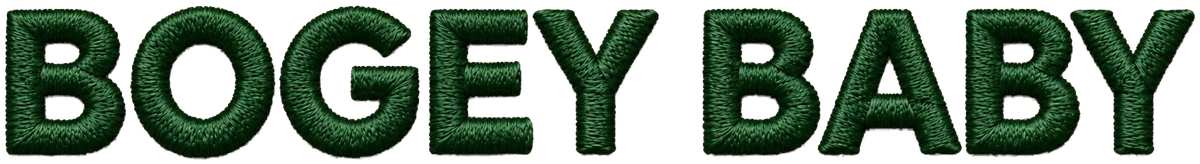
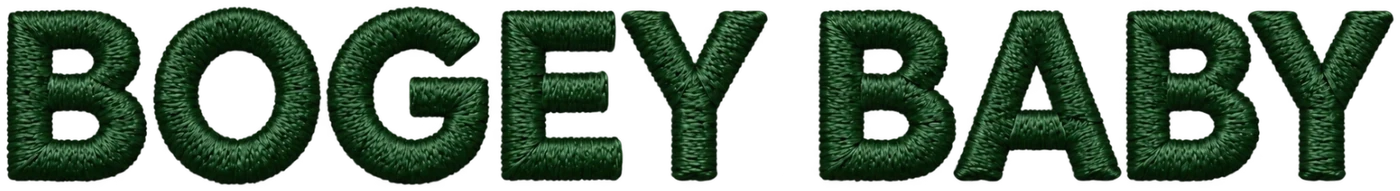
Header: new BOGEY BABY artwork, larger on phones; desktop crest patch, no text menu
- Phones: the supplied BOGEY BABY embroidery at 230px (was 160px); search
  moves into the menu drawer to make room. Also used in the drawer and on
  the ad landing pages.
- Desktop: text menu items removed; the menu button (now on every screen
  size) opens the drawer, which gains a link to The Cream Rope Cap.
- Desktop crest patch is 120px (was 84px) and hangs below the bar at the top
  of the page, shrinking to 80px inside it once the page scrolls.
- Fix: the account icon sat a few pixels high on desktop (hide-mobile reset
  its display to inline).

Claude-Session: https://claude.ai/code/session_01A2CEMQyoF3JCtEcH9hzwd3

diff --git a/storefront/src/components/Header.tsx b/storefront/src/components/Header.tsx
@@ -3,13 +3,14 @@
 import Image from 'next/image';
 import Link from 'next/link';
 import { usePathname } from 'next/navigation';
-import { useEffect, useRef, useState } from 'react';
+import { useEffect, useState } from 'react';
 import { useCart } from '@/lib/cart';
 import { site } from '@/lib/site';
 import { Icon } from './Icon';
 
 const shopLinks = [
   { href: '/collections/all', label: 'Shop all hats' },
+  { href: '/products/cream-rope-cap', label: 'The Cream Rope Cap' },
   { href: '/collections/embroidered', label: 'Embroidered classics' },
   { href: '/collections/performance', label: 'Performance (UPF 50+)' },
   { href: '/collections/ponytail-caps', label: 'Ponytail caps' },
@@ -22,68 +23,50 @@ const styleLinks = [
   { href: '/collections/beanies', label: 'Beanies' },
 ];
 
+/**
+ * Twill header with no text menu: the menu button (every screen size) opens the drawer with all the links.
+ * Desktop: the crest patch sits in the middle, hanging below the bar at the top of the page and shrinking into it
+ * once the page scrolls. Phones: the embroidered BOGEY BABY wordmark in the middle; search lives in the drawer.
+ */
 export function Header() {
   const cart = useCart();
   const [menuOpen, setMenuOpen] = useState(false);
+  const [scrolled, setScrolled] = useState(false);
   const pathname = usePathname();
-  const megaRef = useRef<HTMLDetailsElement>(null);
 
   useEffect(() => {
     setMenuOpen(false);
-    if (megaRef.current) megaRef.current.open = false;
   }, [pathname]);
 
   useEffect(() => {
     const onKey = (e: KeyboardEvent) => {
-      if (e.key === 'Escape') {
-        setMenuOpen(false);
-        if (megaRef.current) megaRef.current.open = false;
-      }
+      if (e.key === 'Escape') setMenuOpen(false);
     };
+    const onScroll = () => setScrolled(window.scrollY > 8);
+    onScroll();
     window.addEventListener('keydown', onKey);
-    return () => window.removeEventListener('keydown', onKey);
+    window.addEventListener('scroll', onScroll, { passive: true });
+    return () => {
+      window.removeEventListener('keydown', onKey);
+      window.removeEventListener('scroll', onScroll);
+    };
   }, []);
 
   return (
     <>
-      <header className="header">
+      <header className={`header${scrolled ? ' is-scrolled' : ''}`}>
         <div className="container header__bar">
           <div className="header__left">
             <button className="icon-btn menu-toggle" aria-label="Open menu" aria-expanded={menuOpen} onClick={() => setMenuOpen(true)}>
               <Icon name="menu" />
             </button>
-            <nav className="nav" aria-label="Main">
-              <details className="mega" ref={megaRef}>
-                <summary>Shop</summary>
-                <div className="mega__panel">
-                  <div className="mega__col">
-                    <h4>Shop</h4>
-                    <ul>{shopLinks.map((l) => <li key={l.href}><Link href={l.href}>{l.label}</Link></li>)}</ul>
-                  </div>
-                  <div className="mega__col">
-                    <h4>By style</h4>
-                    <ul>{styleLinks.map((l) => <li key={l.href}><Link href={l.href}>{l.label}</Link></li>)}</ul>
-                  </div>
-                  <Link href="/pages/golf-buddy" className="mega__promo">
-                    <Image src="/images/lifestyle/cart-friends.webp" alt="" width={1350} height={900} sizes="240px" style={{ borderRadius: 8, width: '100%', height: 'auto' }} />
-                    <strong>Bring your golf buddy</strong>
-                    <span>Save 10% on 2 hats, 15% on 3 or more →</span>
-                  </Link>
-                </div>
-              </details>
-              <Link href="/products/cream-rope-cap">The Cream Rope Cap</Link>
-            </nav>
           </div>
           <Link href="/" className="header__brand" aria-label="Bogey Baby home">
-            <Image className="header__badge" src="/brand/golfer-badge-192.webp" alt="" width={192} height={192} priority />
-            <Image className="header__wordmark header__wordmark--mobile" src="/brand/wordmark-embroidered.webp" alt="Bogey Baby" width={1200} height={164} sizes="160px" priority />
+            <Image className="header__badge" src="/brand/golfer-badge-384.webp" alt="" width={384} height={384} sizes="120px" priority />
+            <Image className="header__wordmark header__wordmark--mobile" src="/brand/wordmark-embroidered.webp" alt="Bogey Baby" width={1400} height={191} sizes="230px" priority />
           </Link>
           <div className="header__right">
-            <nav className="nav" aria-label="Help">
-              <Link href="/pages/fit-guide">Fit Guide</Link>
-              <Link href="/pages/about-us">Our Story</Link>
-            </nav>
-            <Link href="/search" className="icon-btn" aria-label="Search">
+            <Link href="/search" className="icon-btn header__search" aria-label="Search">
               <Icon name="search" />
             </Link>
             <Link href="/account" className="icon-btn hide-mobile" aria-label="Account">
@@ -102,7 +85,7 @@ export function Header() {
       <div className="overlay" data-open={menuOpen} onClick={() => setMenuOpen(false)} aria-hidden="true" />
       <aside className="drawer drawer--left" data-open={menuOpen} aria-label="Menu" aria-hidden={!menuOpen} inert={!menuOpen}>
         <div className="drawer__head">
-          <Image className="wordmark-embroidered" src="/brand/wordmark-embroidered.webp" alt="Bogey Baby" width={1200} height={164} sizes="150px" style={{ width: 150, height: 'auto' }} />
+          <Image className="wordmark-embroidered" src="/brand/wordmark-embroidered.webp" alt="Bogey Baby" width={1400} height={191} sizes="180px" style={{ width: 180, height: 'auto' }} />
           <button className="icon-btn" aria-label="Close menu" onClick={() => setMenuOpen(false)}>
             <Icon name="close" />
           </button>

diff --git a/storefront/src/app/globals.css b/storefront/src/app/globals.css
@@ -125,7 +125,8 @@ p { margin: 0 0 1em; text-wrap: pretty; }
 .header__left, .header__right { display: flex; align-items: center; gap: 4px; }
 .header__right { justify-content: flex-end; }
 .header__brand { display: flex; align-items: center; justify-content: center; gap: 10px; min-height: 44px; padding: 8px 4px; text-decoration: none; }
-.header__wordmark { width: 160px; height: auto; }
+/* Phones: the embroidered wordmark, as large as the bar allows beside the menu button and bag. */
+.header__wordmark { width: min(230px, calc(100vw - 150px)); height: auto; }
 /* The embroidered wordmark sits slightly raised off the fabric. */
 .header__wordmark, .wordmark-embroidered { filter: drop-shadow(0 1px 1px rgba(0, 0, 0, 0.28)); }
 .header__badge { display: none; }
@@ -133,31 +134,19 @@ p { margin: 0 0 1em; text-wrap: pretty; }
 .icon-btn:hover { background: rgba(8, 45, 34, 0.06); }
 .icon-btn svg { width: 24px; height: 24px; }
 .bag-count { position: absolute; top: 4px; right: 2px; min-width: 19px; height: 19px; padding: 0 5px; border-radius: 999px; background: var(--pine-900); color: var(--cream-ink); font-size: 0.7rem; font-weight: 700; line-height: 19px; text-align: center; }
-.nav { display: none; }
+/* Search lives in the menu drawer on phones. */
+.icon-btn.header__search { display: none; }
+@media (min-width: 900px) { .icon-btn.hide-mobile, .icon-btn.header__search { display: inline-flex; } }
 @media (min-width: 1024px) {
   :root { --header-h: 96px; }
-  .header__bar { grid-template-columns: 1fr auto 1fr; }
-  /* The crest sits in the middle with the two menus pulled in beside it; wordmark far left, icons far right. */
-  .header__brand { gap: 0; padding: 4px 22px; }
-  .header__badge { display: block; width: 84px; height: 84px; }
-  .header__left .nav { margin-left: auto; }
-  .header__right .nav { margin-right: auto; }
+  /* Desktop: no text menu. The crest patch hangs below the bar at the top of the page (120px) and shrinks into it
+     (80px) once the page scrolls; the menu button opens the drawer. */
+  .header__brand { align-self: start; align-items: flex-start; height: var(--header-h); padding: 8px 0 0; position: relative; z-index: 2; }
+  .header__badge { display: block; width: 120px; height: 120px; transform-origin: 50% 0; transition: transform 220ms var(--ease); filter: drop-shadow(0 4px 10px rgba(0, 0, 0, 0.28)); }
+  .header.is-scrolled .header__badge { transform: scale(0.667); }
   .header__wordmark--mobile { display: none; }
-  .nav { display: flex; align-items: center; gap: 4px; }
-  .nav a, .nav summary { display: inline-flex; align-items: center; min-height: 44px; padding: 0 10px; white-space: nowrap; font-family: var(--font-stitch), Georgia, serif; font-size: 1.05rem; color: var(--pine-900); text-decoration: none; border-radius: 8px; list-style: none; cursor: pointer; }
-  .nav summary::-webkit-details-marker { display: none; }
-  .nav a:hover, .nav summary:hover { background: rgba(8, 45, 34, 0.06); }
-  .menu-toggle { display: none !important; }
 }
-@media (min-width: 1200px) { .nav a, .nav summary { padding: 0 12px; } }
-@media (min-width: 1024px) { .header__left { gap: 8px; } }
-.mega { position: relative; }
-.mega__panel { position: absolute; left: 0; top: calc(100% + 10px); z-index: 50; width: min(760px, 80vw); display: grid; grid-template-columns: 1fr 1fr 1.2fr; gap: 24px; padding: 24px; background: var(--paper); border: 1px solid var(--line); border-radius: var(--radius); box-shadow: var(--shadow-drawer); }
-.mega__col h4 { margin: 0 0 10px; font-size: 0.75rem; letter-spacing: 0.1em; text-transform: uppercase; color: var(--pine-500); }
-.mega__col ul { list-style: none; margin: 0; padding: 0; }
-.mega__col li a { display: flex !important; align-items: center; min-height: 44px; padding: 0 !important; font-family: var(--font-sans), Arial, sans-serif !important; font-size: 0.98rem !important; }
-.mega__promo { display: grid; gap: 10px; padding: 14px; border-radius: 12px; background: var(--pine-900); color: var(--cream-ink); text-decoration: none; }
-.mega__promo strong { font-family: var(--font-stitch), Georgia, serif; font-weight: 400; font-size: 1.3rem; }
+@media (prefers-reduced-motion: reduce) { .header__badge { transition: none; } }
 
 /* ---------- Drawers ---------- */
 .overlay { position: fixed; inset: 0; z-index: 60; background: rgba(8, 45, 34, 0.45); opacity: 0; pointer-events: none; transition: opacity 200ms var(--ease); }

diff --git a/storefront/src/app/(landing)/layout.tsx b/storefront/src/app/(landing)/layout.tsx
@@ -11,7 +11,7 @@ export default function LandingLayout({ children }: { children: React.ReactNode 
       <header className="header">
         <div className="container minimal-header">
           <Link href="/" aria-label="Bogey Baby home">
-            <Image className="wordmark-embroidered" src="/brand/wordmark-embroidered.webp" alt="Bogey Baby" width={1200} height={164} sizes="170px" style={{ width: 170, height: 'auto' }} priority />
+            <Image className="wordmark-embroidered" src="/brand/wordmark-embroidered.webp" alt="Bogey Baby" width={1400} height={191} sizes="200px" style={{ width: 200, height: 'auto' }} priority />
           </Link>
           <LandingBag />
         </div>
